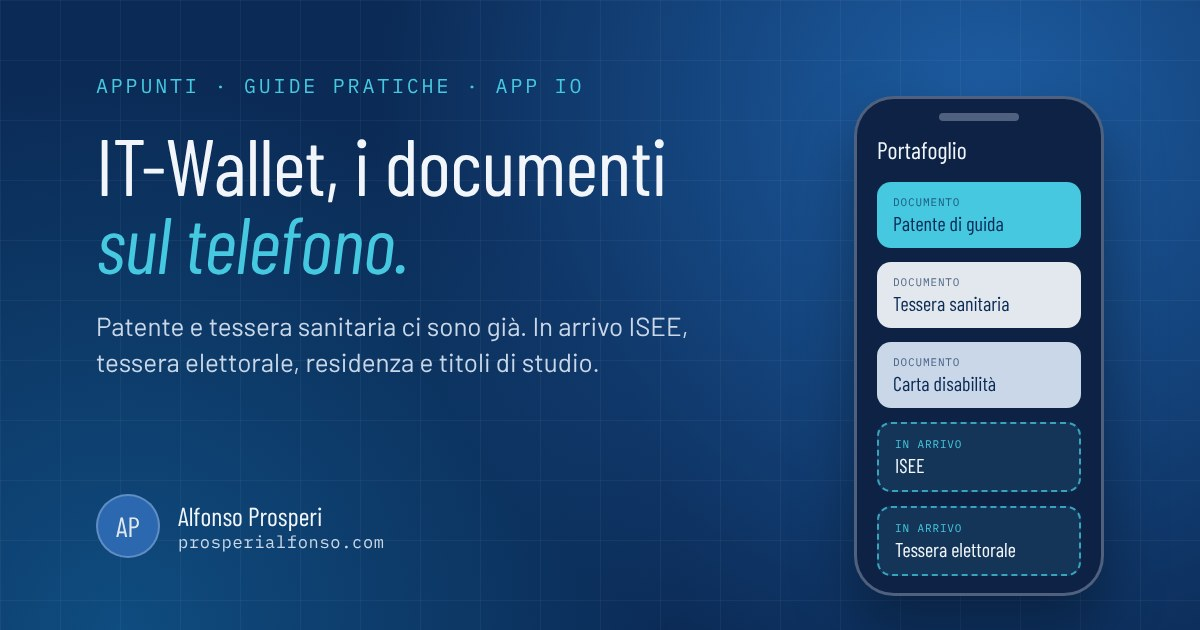
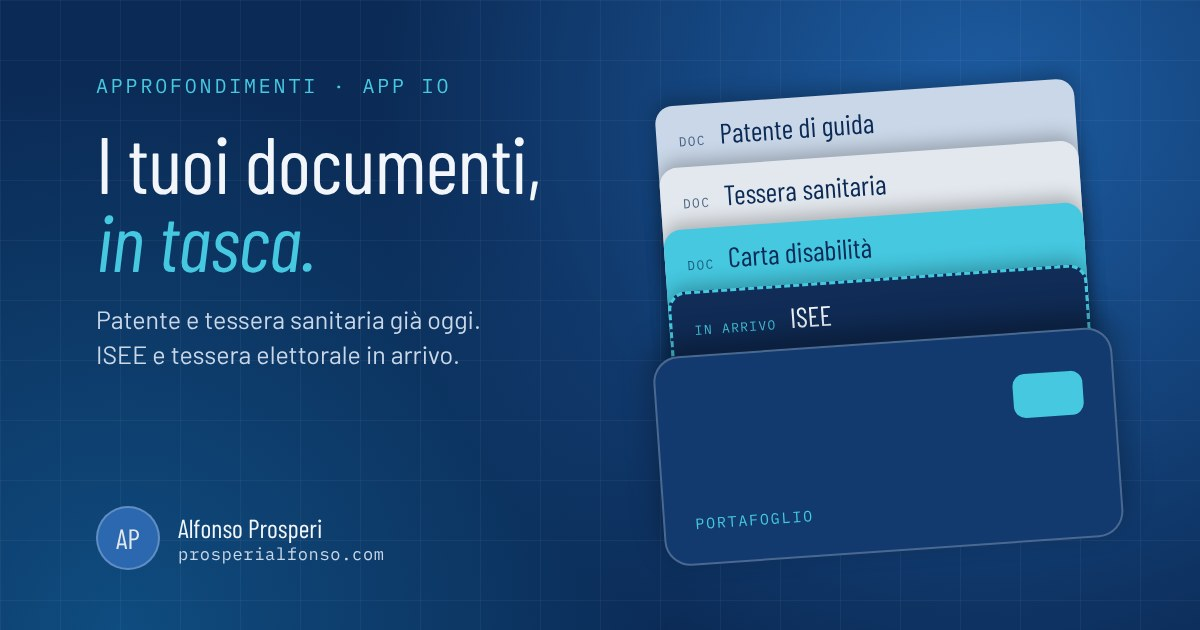
IT-Wallet: nuova immagine di anteprima con le tessere nel portafoglio
Claude-Session: https://claude.ai/code/session_01VNVp3D69RH4p5UYeg6QpX4

diff --git a/blog/it-wallet-documenti-app-io/index.html b/blog/it-wallet-documenti-app-io/index.html
@@ -10,13 +10,13 @@
 <meta property="og:type" content="article">
 <meta property="og:locale" content="it_IT">
 <meta property="og:url" content="https://prosperialfonso.com/blog/it-wallet-documenti-app-io/">
-<meta property="og:image" content="https://prosperialfonso.com/assets/blog/it-wallet-documenti-app-io/og-image.jpg">
+<meta property="og:image" content="https://prosperialfonso.com/assets/blog/it-wallet-documenti-app-io/og-image.jpg?v=2">
 <meta property="og:image:width" content="1200">
 <meta property="og:image:height" content="630">
 <meta name="twitter:card" content="summary_large_image">
 <meta name="twitter:title" content="IT-Wallet: i documenti sull'app IO e i nuovi in arrivo">
 <meta name="twitter:description" content="Patente, tessera sanitaria e carta disabilità sono già sull'app IO. Entro fine 2026 arrivano ISEE, tessera elettorale, residenza e titoli di studio: come attivare il Portafoglio e prepararsi.">
-<meta name="twitter:image" content="https://prosperialfonso.com/assets/blog/it-wallet-documenti-app-io/og-image.jpg">
+<meta name="twitter:image" content="https://prosperialfonso.com/assets/blog/it-wallet-documenti-app-io/og-image.jpg?v=2">
 <link rel="canonical" href="https://prosperialfonso.com/blog/it-wallet-documenti-app-io/">
 <link rel="icon" href="../../favicon.svg" type="image/svg+xml">
 <link rel="preconnect" href="https://fonts.googleapis.com">
@@ -52,7 +52,7 @@
       <h1>IT-Wallet: i documenti sull'app IO e i nuovi in arrivo</h1>
     </header>
     <div class="article-body">
-      <figure class="art-figure"><img src="../../assets/blog/it-wallet-documenti-app-io/og-image.jpg" alt="Portafoglio digitale IT-Wallet sull'app IO" width="1200" height="630"></figure>
+      <figure class="art-figure"><img src="../../assets/blog/it-wallet-documenti-app-io/og-image.jpg?v=2" alt="Tessere di patente, tessera sanitaria, carta disabilità e ISEE che escono da un portafoglio digitale" width="1200" height="630"></figure>
 
 <p>Patente e tessera sanitaria sul telefono le usano già più di dieci milioni di italiani. Ora il Portafoglio dell'app IO si allarga: entro fine 2026 dovrebbero entrare anche ISEE, tessera elettorale, certificato di residenza e titoli di studio. Vediamo cosa c'è oggi, cosa arriva e come prepararsi in pochi minuti.</p>
 

diff --git a/blog/index.html b/blog/index.html
@@ -44,7 +44,7 @@
   <div class="note-grid" id="noteGrid">
 
       <a class="note-card" href="it-wallet-documenti-app-io/" data-cat="approfondimenti" data-outdated="0">
-        <div class="note-thumb"><img src="../assets/blog/it-wallet-documenti-app-io/og-image.jpg" alt="" loading="lazy"></div>
+        <div class="note-thumb"><img src="../assets/blog/it-wallet-documenti-app-io/og-image.jpg?v=2" alt="" loading="lazy"></div>
         <div class="note-body">
           <span class="tools">Approfondimenti &middot; 15 ottobre 2026</span>
           <strong>IT-Wallet: i documenti sull'app IO e i nuovi in arrivo</strong>
